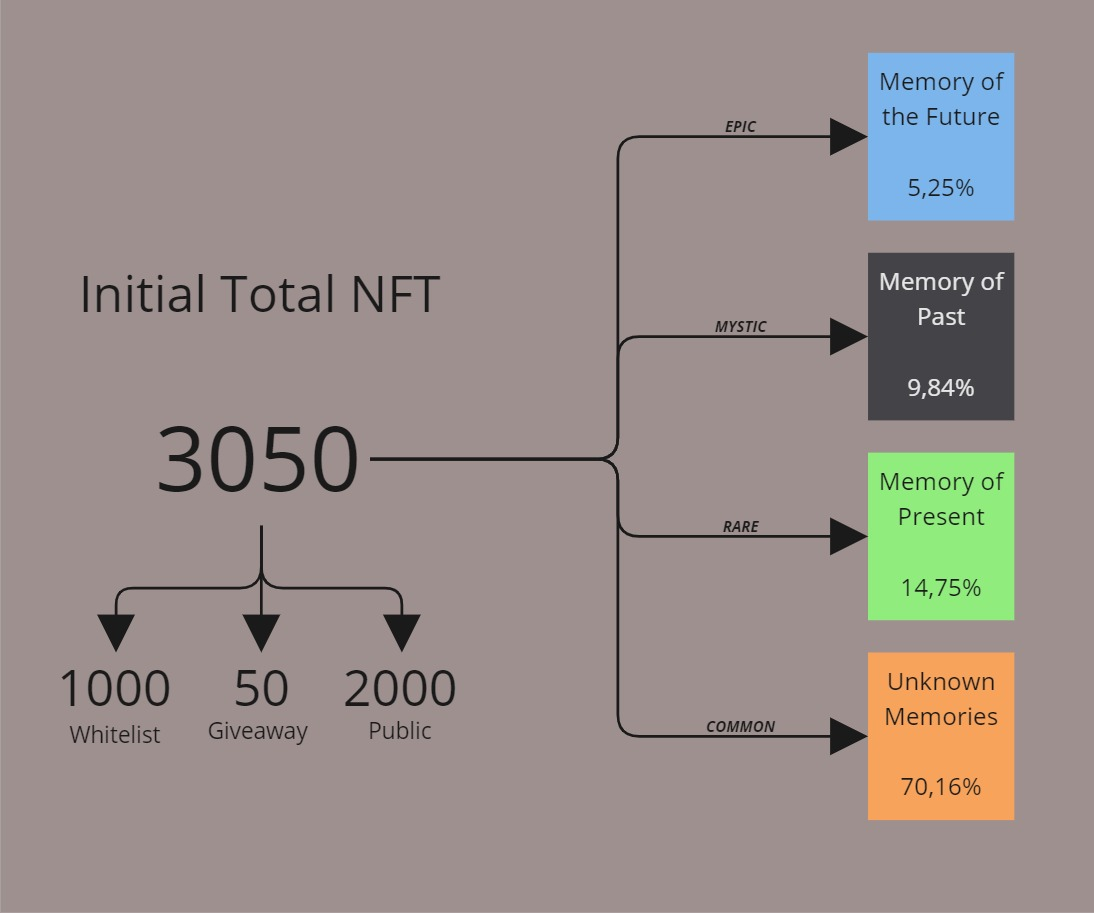
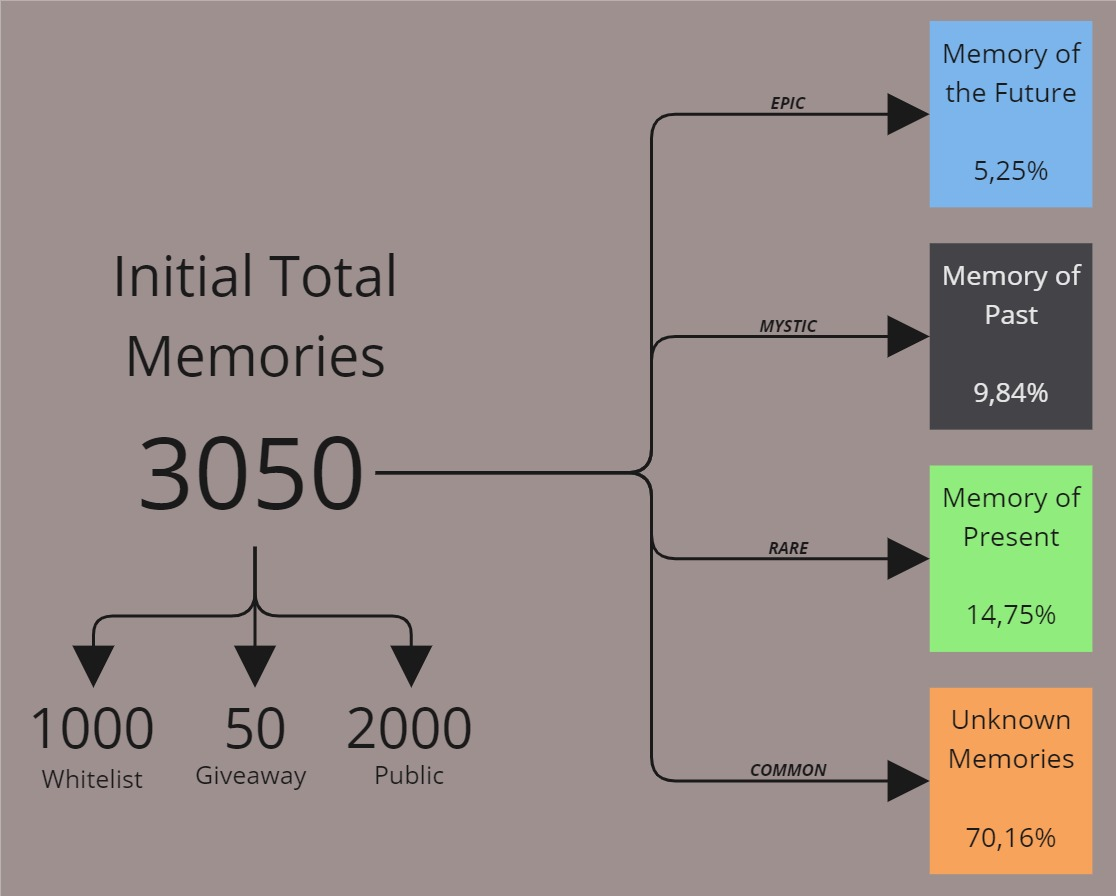
GitBook: [#46] No subject

diff --git a/lets-terraform-the-nft-culture/reward-system.md b/lets-terraform-the-nft-culture/reward-system.md
@@ -1,28 +1,28 @@
 # 🎯 Reward System
 
-Our goal is to build a sustainable community that encourages the NFT holder to play the game to earn more rewards. There are three primary rewards from our gamification:
+Our goal is to build a sustainable community that encourages the Memory holder to play the game to earn more rewards. There are three primary rewards from our gamification:
 
 1. [Staking Reward](reward-system.md#1.-staking-reward)
 2. [Biweekly Reward:](reward-system.md#2.-biweekly-reward)
-   * Legendary NFT.
+   * Legendary Memory.
    * $UST.
-3. &#x20;[Comic Page Airdrops.](reward-system.md#3.-comic-page-airdrops)
+3. &#x20;[Comic Chapter Airdrops.](reward-system.md#3.-comic-page-airdrops)
 
 ### <mark style="color:yellow;">1. Staking Reward</mark>
 
-We will allocate [royalties](../i-want-to-know-more/funds-allocation.md#royalty) from the secondary sales staking rewards. NFT holders that stake their NFT will receive passive income paid in $LUNA.
+We will allocate [royalties](../i-want-to-know-more/funds-allocation.md#royalty) from the secondary sales staking rewards. Players that stake their Memory will receive passive income paid in $LUNA.
 
 {% hint style="success" %}
-Get a higher share from the staking pools by filling those multiplier slots.&#x20;
+Get a higher share from the staking pools by filling those multiplier panels.&#x20;
 {% endhint %}
 
 ### <mark style="color:yellow;">2. Biweekly Reward</mark>
 
 Every two weeks, we will announce the winner to receive:
 
-*   #### &#x20;<mark style="color:purple;">Legendary NFT</mark>
+*   #### &#x20;<mark style="color:purple;">Legendary Memory</mark>
 
-    Number 1 player in the biweekly Leaderboard will receive 1 Legendary NFT that can be played in our gamification v2 update.
+    The top 1 player in the biweekly Leaderboard will receive 1 Legendary Memory that holds many benefits and can be played in our gamification V2 update.
 *   <mark style="color:purple;">**$UST**</mark>
 
     We will airdrop $UST to the top 100 players in the biweekly Leaderboard.
@@ -31,8 +31,8 @@ Every two weeks, we will announce the winner to receive:
 The Biweekly Reward will be coming from (Colony Investment Program). More info about it [here](../i-want-to-know-more/funds-allocation.md#colony-investment-program-cip).
 {% endhint %}
 
-### <mark style="color:yellow;">3. Comic Page Airdrops</mark>
+### <mark style="color:yellow;">3. Comic Chapter Airdrops</mark>
 
-Each player participating in our "insert\_gamification\_name\_here" will receive a copy of the comic page with the winner NFT as the main character.
+Each player participating in The ARK(LINK TO GAMIFICATION) will receive a copy of the comic chapter with the winner Memory printed as the main character.
 
 <mark style="color:yellow;"></mark>

diff --git a/i-want-to-know-more/funds-allocation.md b/i-want-to-know-more/funds-allocation.md
@@ -28,7 +28,7 @@ With the Colony behind the Treasury, we will discover the best yet safest invest
 The first CIP allocation is as follows:
 
 * 70% into Anchor to receive \~19,47 APY in $UST.
-* 30% into the community chosen project on Terra.
+* 30% into the community chosen projects on Terra.
 
 {% hint style="info" %}
 After the initial Colony Investment Program, the Colony will be able to submit a proposal after our initial minting phase is over.
@@ -67,7 +67,7 @@ We will use the Marketing funds to expand our exposure to other communities. The
 
 ### Development 🧰
 
-We are here to stay and innovate! To be able to terraform the NFT community is our primary goal. We will explore the possibilities of NFT 2.0 to bring more dynamics into our gamification.
+We are here to innovate! To be able to terraform the NFT community is our primary goal. We will explore the possibilities of NFT 2.0 to bring more dynamics into our gamification.
 
 ## Royalty&#x20;
 
@@ -79,15 +79,32 @@ Get a higher share from the staking pools by filling those multiplier slots.&#x2
 
 The royalty distribution based on the secondary marketplace:
 
-* **Knowhere (5%)**
-  * 4,5% to Project Wallet
-  * 0,5% to Team
-* **Random Earth (5%)**
-  * 4,5% to Project Wallet
-  * 0,5% to Team
-* **Luart (3,5%)**
-  * 3,15% to Project Wallet
-  * 0,35% to Team
+<details>
+
+<summary><a href="https://knowhere.art">Knowhere</a> <strong>(5%)</strong></summary>
+
+* 4,5% to Project Wallet
+* 0,5% to Team
+
+</details>
+
+<details>
+
+<summary><strong></strong><a href="https://randomearth.io/home"><strong>Random Earth</strong></a> <strong>(5%)</strong></summary>
+
+* 4,5% to Project Wallet
+* 0,5% to Team
+
+</details>
+
+<details>
+
+<summary><strong></strong><a href="https://marketplace.luart.io"><strong>Luart</strong> </a><strong>(3,5%)</strong></summary>
+
+* 3,15% to Project Wallet
+* 0,35% to Team
+
+</details>
 
 \
 

diff --git a/lets-terraform-the-nft-culture/tokenomics.md b/lets-terraform-the-nft-culture/tokenomics.md
@@ -1,10 +1,24 @@
 # 🪙 Tokenomics
 
-## Cognitive Ark Gen 0
+## Cognitive Ark Gen0 (The Genesis)
 
-
+CognitiveArk initiated. The Ark will soon release 3050 scattered memories and populate the Terra Ecosystem ☄. Be a part of the Colony that will terraform the NFT space 🛸.
 
 ![](<../.gitbook/assets/Finance - Tokenomics.jpg>)
+
+There will be four rarity levels of memories:
+
+* Unknown Memories (Common)
+* Memory of the Present (Rare)
+* Memory of the Past (Mystic)
+* Memory of the Future (Epic)
+
+All of the gen0 memories will possess fundamental utility:
+
+* Memories can be staked to earn $LUNA
+* Memory holders can play the ARK to earn rewards
+* Ability to become a member of the Colony council for ARK DAO
+* Access unique role on Discord
 
 ## Staking Pool Distribution
 
